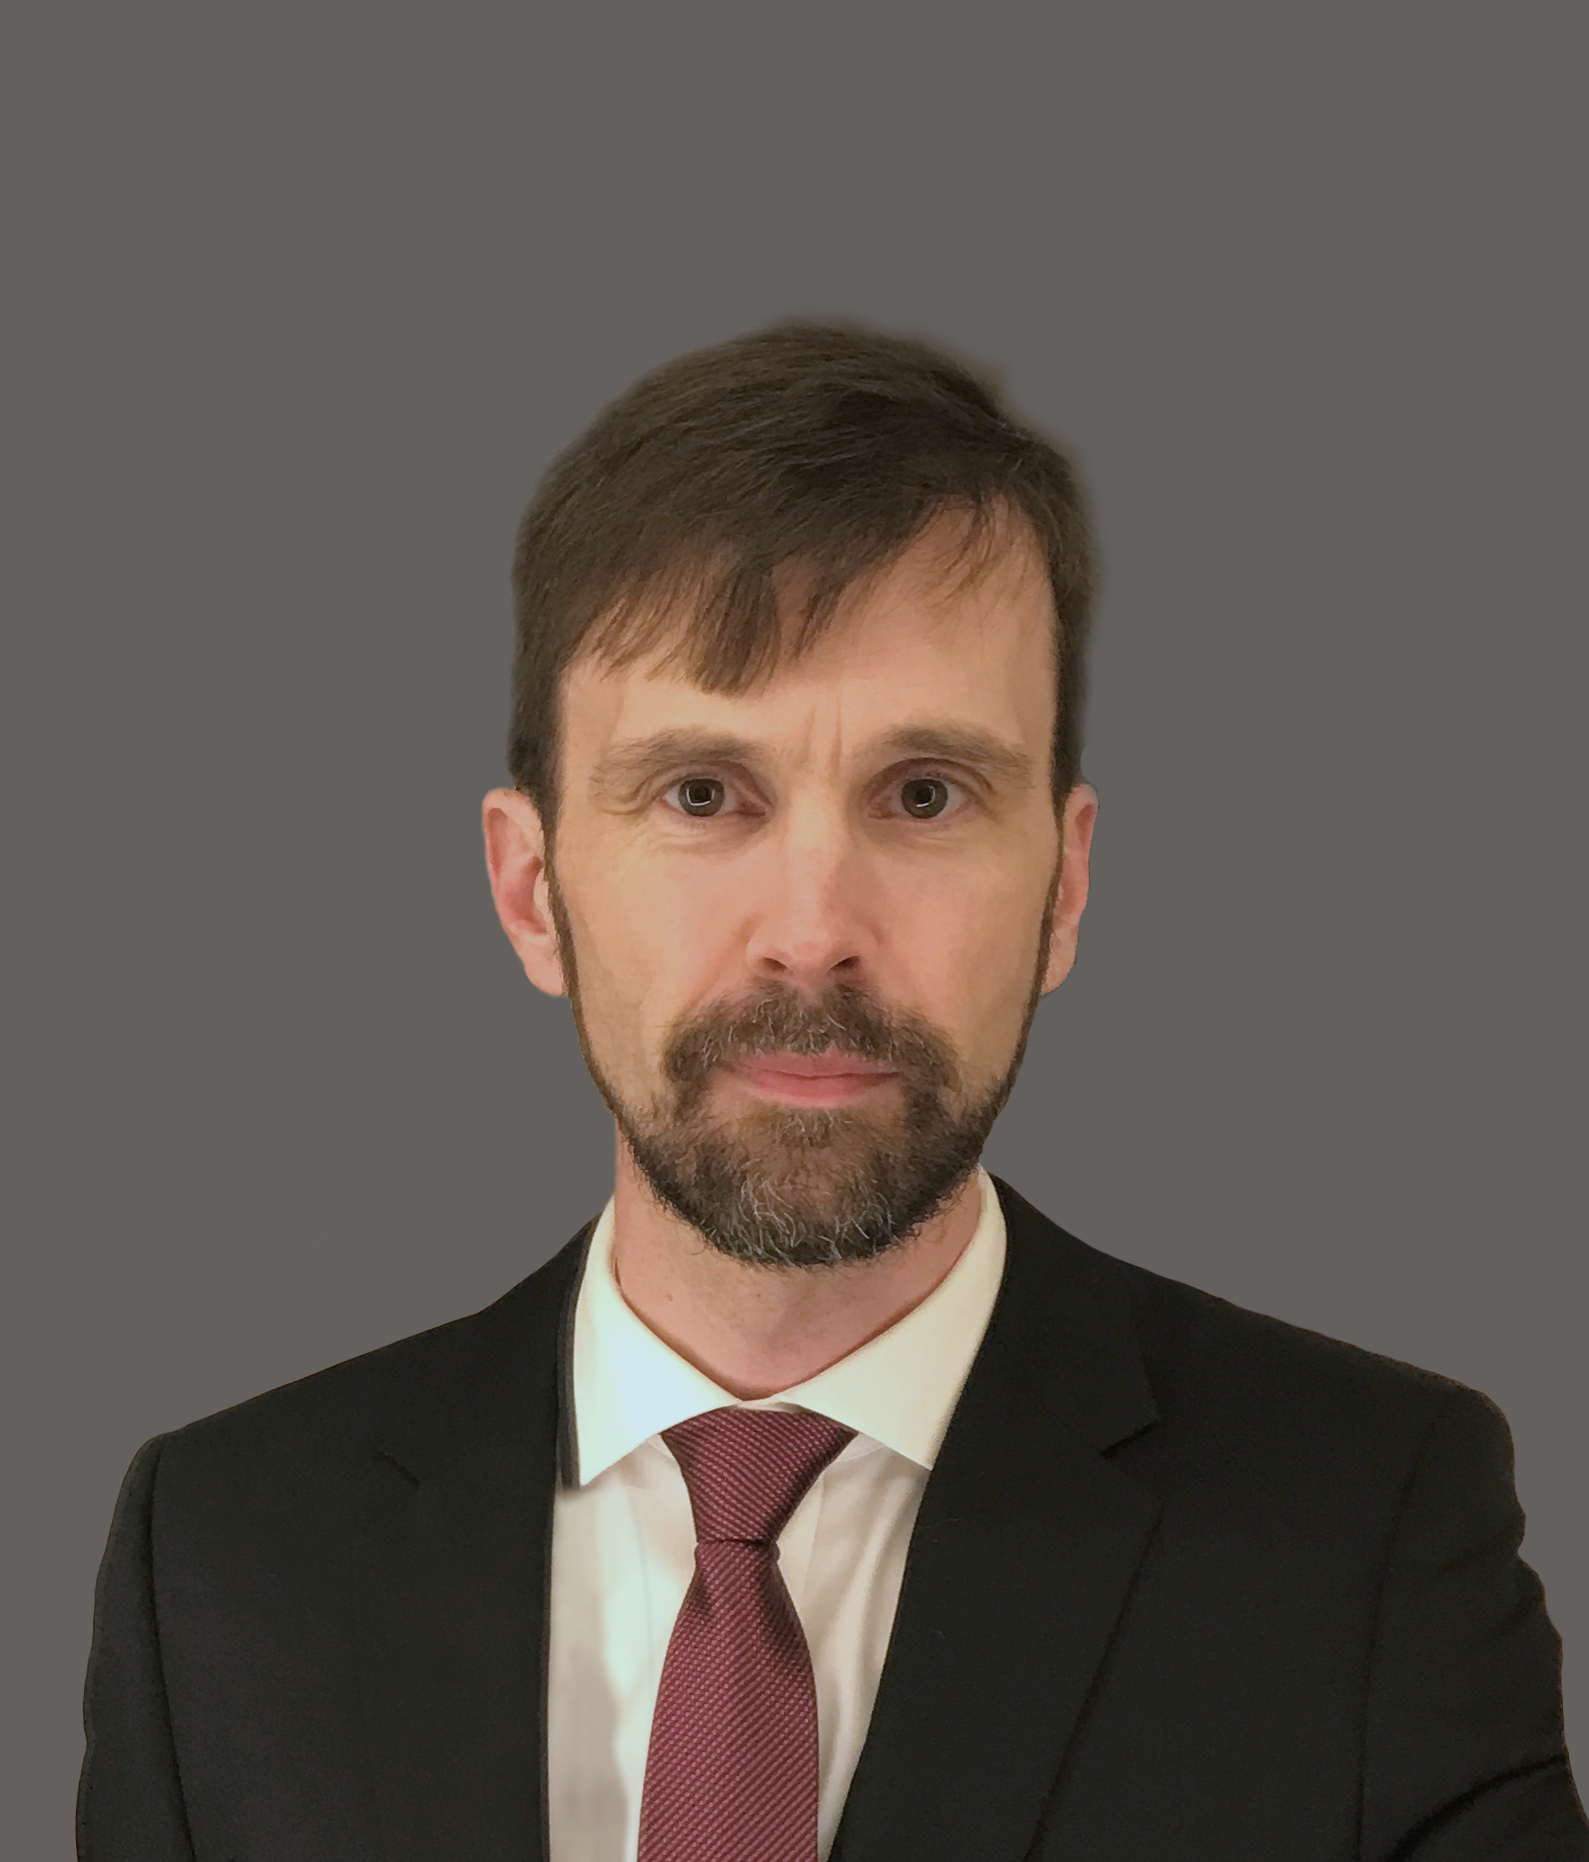
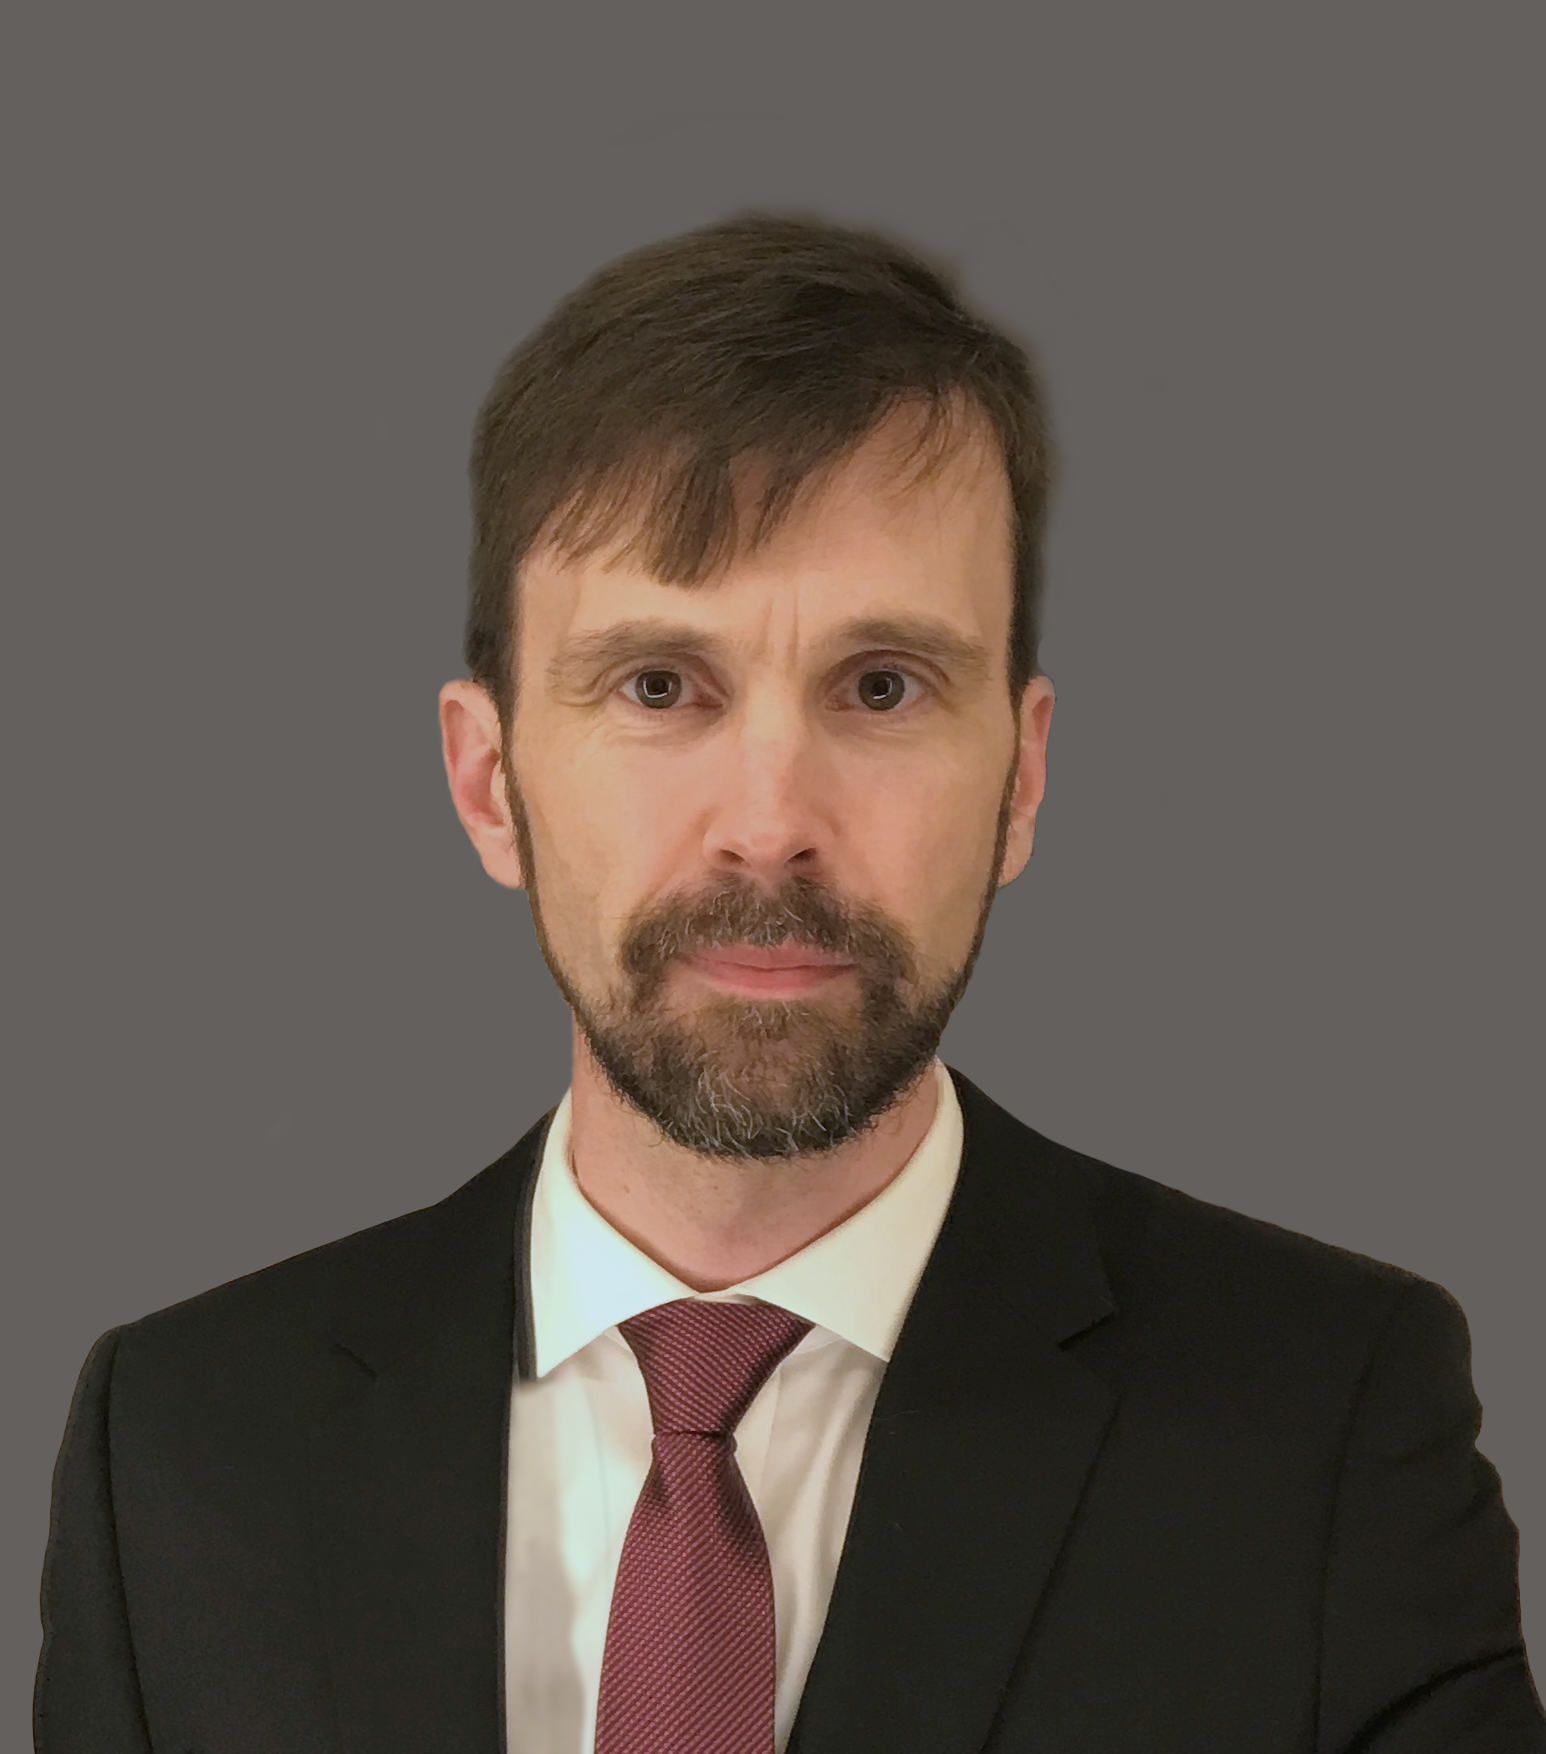
Expertise: changed group rows to banded, set font color, size.  Removed H2 clamp.  Set Heading sizes.  Cropped About photo.  Centered Services cards.

Changed region(s): [[0.0, 0.1231, 0.9625, 1.0], [0.9314, 0.8005, 0.9625, 0.8312]]

diff --git a/index.html b/index.html
@@ -15,9 +15,10 @@
   <meta charset="utf-8" />
   <meta name="viewport" content="width=device-width, initial-scale=1" />
   <title>Dabrowiak Consulting</title>
-  <meta name="description" content="Dabrowiak Consulting blends engineering expertise, customer perspective, 
-  and business strategy to drive MedTech adoption. Services include product management / optimization, technical 
-  analysis for IP strategy and litigation, and due diligence for strategic, venture capital, or private equity investors." />
+  <meta name="description" content="Dabrowiak Consulting blends customer perspective, technical expertise, and business 
+  and business strategy to drive MedTech adoption. Services include product management, product strategy & support, and 
+  independent technical analysis / assessment for strategic, intellectual property (IP) due diligence (e.g. for strategic, 
+  venture capital, or private equity investors)." />
   <meta name="theme-color" content="#0b1220" />
   <link rel="stylesheet" href="styles.css" />
 
@@ -43,7 +44,7 @@
     <img class="bg" src="ICU.png" alt="" loading="eager">
     <div>
       <h1>From Insight to Adoption</h1>
-      <p>Blending technical expertise, customer perspective, and business strategy <br> 
+      <p>Blending customer perspective, technical expertise, and business strategy <br> 
         into actionable guidance for the MedTech innovator and investor community</p>
     </div>
   </section>
@@ -74,13 +75,14 @@
       <article class="service-card">
         <img src="product optimization.png" alt="Product Optimization Icon" class="service-icon">
         <h3>Product Strategy & Support</h3>
-        <p>Systematic alignment of product decisions with stakeholder needs to maximize project ROI and accelerate adoption</p>
+        <p>Systematic alignment of product decisions with stakeholder needs to maximize project ROI, launch with confidence, 
+          and accelerate adoption</p>
         <!-- <a class="btn" href="product-strategy.html">Learn more</a> -->
       </article>
       <article class="service-card">
         <img src="tech analysis.png" alt="Technical Analysis Icon" class="service-icon">
         <h3>Independent Technical Assessment</h3>
-        <p>Unbiased evaluation of technologies and claims for strategic, intellectual 
+        <p>Unbiased evaluation of technologies and claims to support strategic, intellectual 
           property, and investment decisions </p>
         <!-- <a class="btn" href="technical-assessment.html">Learn more</a> -->
         </article>
@@ -101,28 +103,32 @@
               <td>KOL interviews, user focus groups</td>
             </tr>
             <tr><td>Clinical process maps (journey, decision, value stream)</td></tr>
-            
+          </tbody>
+          <tbody>
             <tr>
               <th class="group" rowspan="3">Concept Generation</th>
               <td>Iterative brainstorming & concept modeling</td>
             </tr>
-            <tr><td>Prioritization matrix (effort, impact)</td></tr>
+            <tr><td>Prioritization matrices (effort, impact)</td></tr>
             <tr><td>Feature grouping (fit, overlap)</td></tr>
-            
+          </tbody>
+          <tbody>
             <tr>
               <th class="group" rowspan="3">Product Strategy</th>
-              <td>Product roadmaps</td>
+              <td>Product roadmaps and lifecycle planning</td>
             </tr>
             <tr><td>Financial models (NPV, ROI)</td></tr>
             <tr><td>Product / Marketing Requirements</td></tr>
-            
+          </tbody>
+          <tbody>
             <tr>
               <th class="group" rowspan="3">Development Support</th>
               <td>User Interface / User Experience (UI/UX)</td>
             </tr>
             <tr><td>Actionable VOC feedback</td></tr>
             <tr><td>Technical advising</td></tr>
-            
+          </tbody>
+          <tbody>
             <tr>
               <th class="group" rowspan="3">Commercial Support</th>
               <td>Positioning, Collateral</td>
@@ -143,13 +149,15 @@
               <td>Architecture, layout</td>
             </tr>
             <tr><td>Algorithms - measurement, control</td></tr>
-
+          </tbody>
+          <tbody>
             <tr>
               <th class="group" rowspan="2">Sterile Consumables</th>
               <td>Catheters, hub overmolding</td>
             </tr>
             <tr><td>Cartridges, tubing sets</td></tr>
-
+          </tbody>
+          <tbody>
             <tr>
               <th class="group" rowspan="3">Fluids</th>
               <td>Blood, saline, slurries, supersaturation</td>
@@ -157,18 +165,19 @@
             <tr><td>Valves, traps, dampening, vents</td></tr>
             <tr><td>Pumps - roller, gear, vane, centrifugal, gravity, vacuum</td></tr>
             </tr>
-
+          </tbody>
+          <tbody>
             <tr>
               <th class="group" rowspan="2">Heating & Cooling</th>
               <td>System, heat exchanger, and evaporator design</td>
             </tr>
             <tr><td>Thermoelectrics, desiccation-evaporation, endothermic mtls.</td></tr>
-
+          </tbody>
+          <tbody>
             <tr>
               <th class="group" rowspan="1">Sensors</th>
               <td>Pressure, temperature, flow, bubble, level</td>
             </tr>
-
           </tbody>
         </table>
       </div>
@@ -177,9 +186,9 @@
 
   <!-- About -->
   <section class="wrap" id="about" aria-label="About">
+    <h2>About</h2>
     <div class="two-col">
       <div>
-        <h2>About</h2>
         <p>Jeremy Dabrowiak most recently served as Director of Marketing at ZOLL Medical.  Prior to that, he served the 
           company in Director-level roles in Innovation and Research, Design Research, and Product Engineering.</p>
         <p>In 21 years of startup and corporate medical device roles, he has driven multiple products from concept to 

diff --git a/styles.css b/styles.css
@@ -30,6 +30,11 @@ display:block
 p { line-height: 1.4; }
 ul { line-height: 1.4; }
 h1, h2, h3 { line-height: 1.1; }
+h1 { font-size: 2.25rem; } /* ~40px */
+h2 { font-size: 1.75rem; } /* ~32px */
+h3 { font-size: 1.35rem; } /* ~22px */
+h4 { font-size: 1.125rem; } /* ~18px */
+
 
 /* ----- Header / Nav ----- */
 .nav{
@@ -113,10 +118,6 @@ gap:1.5rem
 @media (min-width:900px){
 .two-col{ grid-template-columns:1.05fr .95fr }
 }
-h2{ 
-font-size:clamp(1.4rem, 2.6vw, 2rem); 
-margin:.25rem 0 1rem 
-}
 p.lead{ 
 font-size:1.3rem; 
 color:var(--fg-3) 
@@ -137,7 +138,7 @@ margin:.45rem 0
 }
 
 #puzzle img {
-max-width: 300;
+max-width: 450px;
 height: auto;
 display: block;
 }
@@ -199,16 +200,11 @@ filter: hue-rotate(-2deg) brightness(0.85) saturate(2);
 
 /* ----- Expertise ----- */
 #expertise {
-padding: 64px 0;
-}
-
-#expertise .section-title {
-font-size: 2rem;
-margin-bottom: 1rem;
+    padding-top: 64px;
+    padding-bottom: 0px;
 }
 
 #expertise .subsection-title {
-font-size: 1.25rem;
 margin: 2rem 0 0.75rem;
 }
 
@@ -221,7 +217,7 @@ overflow-x: auto;
 -webkit-overflow-scrolling: touch;
 border-radius: 12px;
 box-shadow: 0 1px 0 rgba(0,0,0,0.05) inset, 0 6px 20px rgba(0,0,0,0.06);
-background: var(--card-bg, #fff);
+background: transparent; /*var(--band);*/
 }
 
 /* Table baseline */
@@ -230,12 +226,18 @@ width: 100%;
 border-collapse: separate;
 border-spacing: 0;
 min-width: 640px; /* keep structure on small screens */
-font-size: 0.95rem;
+font-size: 1.0rem;
+font-weight: 400;
 }
 
-/* Banded rows */
-#expertise .exp-table tbody tr:nth-child(even) td {
-background: var(--row-alt, #fff8f3);
+/* Alternate GROUP band colors per <tbody> */
+#expertise .exp-table tbody:nth-of-type(odd)  { --group-band: #ffe7d7; } /* your alt color */
+#expertise .exp-table tbody:nth-of-type(even) { --group-band: #ffffff; } /* a 2nd shade */
+
+/* Apply the band to the whole group block */
+#expertise .exp-table tbody th.group,
+#expertise .exp-table tbody td {
+  background: var(--group-band);
 }
 
 /* Cell padding & borders */
@@ -243,17 +245,15 @@ background: var(--row-alt, #fff8f3);
 #expertise .exp-table th.group {
 padding: 12px 16px;
 vertical-align: top;
-border-bottom: 1px solid var(--hairline, #e6e6e6);
 }
 
 /* Left “group” column styling */
 #expertise .exp-table th.group {
 width: 30%;
 text-align: left;
-font-weight: 600;
-color: var(--ink-600, #333);
+font-weight: 700;
 background:
-linear-gradient(90deg, var(--accent-50, #f8f1f5), transparent 60%)
+/*linear-gradient(90deg, var(--accent-50, #f8f1f5), transparent 60%)*/
 , var(--group-bg, #fcfcfc);
 position: relative;
 }
@@ -265,22 +265,9 @@ position: absolute;
 inset: 0 auto 0 0;
 width: 4px;
 background: var(--accent, #ff7300);
-border-top-left-radius: 12px;
-border-bottom-left-radius: 12px;
 }
 
-/* Round top/bottom corners of the table container */
-#expertise .exp-table tbody tr:first-child th.group,
-#expertise .exp-table tbody tr:first-child td {
-border-top-left-radius: 12px;
-border-top-right-radius: 12px;
-}
 
-#expertise .exp-table tbody tr:last-child th.group,
-#expertise .exp-table tbody tr:last-child td {
-border-bottom-left-radius: 12px;
-border-bottom-right-radius: 12px;
-}
 
 /* Tighter layout on very small screens 
 @media (max-width: 480px) {
